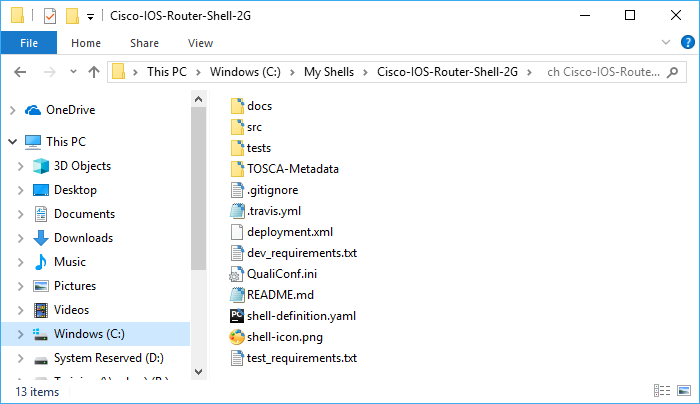
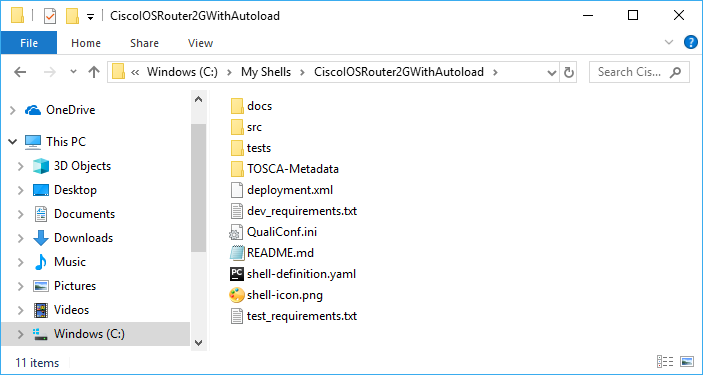
Customizing Shells - end-to-end example - simplified mock shell's extension process
rephrased step 1 to use the source code URL of the github repo's release instead of downloading the shell and using the path

diff --git a/_shells/8.3.0/customizing-shells.md b/_shells/8.3.0/customizing-shells.md
@@ -208,12 +208,12 @@ The shell’s categories are added to the Global domain. If a category with the 
 
 To help us understand the shell customization process, let’s add attributes and commands to a shell. To simulate this process, we’ve created a modified version of the Cisco IOS Router Shell, which creates a mock resource structure of 16 ports. Please feel free to use it.
 
-Start by extending the shell. In the <a href="https://community.quali.com/integrations" target="_blank">Quali Community Integrations</a> page, find the **Cisco IOS Router 2G Shell - Mock Autoload** shell and download its source code to your computer. Extract the source code zip package. Then, run `shellfoundry extend` using the path to the shell's root folder.
+Start by extending the shell. From the <a href="https://github.com/QualiSystemsLab/CiscoIOSRouter2GWithAutoload/releases" target="_blank">CiscoIOSRouter2GWithAutoload</a> shell's GitHub **Releases** page, copy the source code link address of the latest release. Then, run `shellfoundry extend`.
 
 For example:
 
 {% highlight yaml %}
-shellfoundry extend local:C:\Users\steven.g\Downloads\CiscoIOSRouter2GWithAutoload-master\CiscoIOSRouter2GWithAutoload-master\Cisco-IOS-Router-Shell-2G
+shellfoundry extend https://github.com/QualiSystemsLab/CiscoIOSRouter2GWithAutoload/archive/1.0.zip
 {% endhighlight %}
 
 The shell project is created in the directory from which you ran the command.
@@ -221,6 +221,8 @@ The shell project is created in the directory from which you ran the command.
 ![Context Object]({{ site.baseurl }}/assets/customizing-shells-shell-project.png)
 
 When you extend a shell, it's recommended to change the shell’s version and author. This is done in the shell project’s *shell-definition.yaml* file.
+
+For example:
 
 {% highlight yaml %}
 metadata:
@@ -234,7 +236,7 @@ To see how it looks in CloudShell Portal, navigate to the shell’s root folder 
 For example:
 
 {% highlight yaml %}
-cd "c:\My Shells\Cisco-IOS-Router-Shell-2G"
+cd "c:\My Shells\CiscoIOSRouter2GWithAutoload"
 shellfoundry install
 {% endhighlight %}
 

diff --git a/_shells/8.0.0/customizing-shells.md b/_shells/8.0.0/customizing-shells.md
@@ -206,12 +206,12 @@ Service Categories:
 
 To help us understand the shell customization process, let’s add attributes and commands to a shell. To simulate this process, we’ve created a modified version of the Cisco IOS Router Shell, which creates a mock resource structure of 16 ports. Please feel free to use it.
 
-Start by extending the shell. In the <a href="https://community.quali.com/integrations" target="_blank">Quali Community Integrations</a> page, find the **Cisco IOS Router 2G Shell - Mock Autoload** shell and download its source code to your computer. Extract the source code zip package. Then, run `shellfoundry extend` using the path to the shell's root folder.
+Start by extending the shell. From the <a href="https://github.com/QualiSystemsLab/CiscoIOSRouter2GWithAutoload/releases" target="_blank">CiscoIOSRouter2GWithAutoload</a> shell's GitHub **Releases** page, copy the source code link address of the latest release. Then, run `shellfoundry extend`.
 
 For example:
 
 {% highlight yaml %}
-shellfoundry extend local:C:\Users\steven.g\Downloads\CiscoIOSRouter2GWithAutoload-master\CiscoIOSRouter2GWithAutoload-master\Cisco-IOS-Router-Shell-2G
+shellfoundry extend https://github.com/QualiSystemsLab/CiscoIOSRouter2GWithAutoload/archive/1.0.zip
 {% endhighlight %}
 
 The shell project is created in the directory from which you ran the command.
@@ -219,6 +219,8 @@ The shell project is created in the directory from which you ran the command.
 ![Context Object]({{ site.baseurl }}/assets/customizing-shells-shell-project.png)
 
 When you extend a shell, it's recommended to change the shell’s version and author. This is done in the shell project’s *shell-definition.yaml* file.
+
+For example:
 
 {% highlight yaml %}
 metadata:
@@ -232,7 +234,7 @@ To see how it looks in CloudShell Portal, navigate to the shell’s root folder 
 For example:
 
 {% highlight yaml %}
-cd "c:\My Shells\Cisco-IOS-Router-Shell-2G"
+cd "c:\My Shells\CiscoIOSRouter2GWithAutoload"
 shellfoundry install
 {% endhighlight %}
 

diff --git a/_shells/8.1.0/customizing-shells.md b/_shells/8.1.0/customizing-shells.md
@@ -206,12 +206,12 @@ Service Categories:
 
 To help us understand the shell customization process, let’s add attributes and commands to a shell. To simulate this process, we’ve created a modified version of the Cisco IOS Router Shell, which creates a mock resource structure of 16 ports. Please feel free to use it.
 
-Start by extending the shell. In the <a href="https://community.quali.com/integrations" target="_blank">Quali Community Integrations</a> page, find the **Cisco IOS Router 2G Shell - Mock Autoload** shell and download its source code to your computer. Extract the source code zip package. Then, run `shellfoundry extend` using the path to the shell's root folder.
+Start by extending the shell. From the <a href="https://github.com/QualiSystemsLab/CiscoIOSRouter2GWithAutoload/releases" target="_blank">CiscoIOSRouter2GWithAutoload</a> shell's GitHub **Releases** page, copy the source code link address of the latest release. Then, run `shellfoundry extend`.
 
 For example:
 
 {% highlight yaml %}
-shellfoundry extend local:C:\Users\steven.g\Downloads\CiscoIOSRouter2GWithAutoload-master\CiscoIOSRouter2GWithAutoload-master\Cisco-IOS-Router-Shell-2G
+shellfoundry extend https://github.com/QualiSystemsLab/CiscoIOSRouter2GWithAutoload/archive/1.0.zip
 {% endhighlight %}
 
 The shell project is created in the directory from which you ran the command.
@@ -219,6 +219,8 @@ The shell project is created in the directory from which you ran the command.
 ![Context Object]({{ site.baseurl }}/assets/customizing-shells-shell-project.png)
 
 When you extend a shell, it's recommended to change the shell’s version and author. This is done in the shell project’s *shell-definition.yaml* file.
+
+For example:
 
 {% highlight yaml %}
 metadata:
@@ -232,7 +234,7 @@ To see how it looks in CloudShell Portal, navigate to the shell’s root folder 
 For example:
 
 {% highlight yaml %}
-cd "c:\My Shells\Cisco-IOS-Router-Shell-2G"
+cd "c:\My Shells\CiscoIOSRouter2GWithAutoload"
 shellfoundry install
 {% endhighlight %}
 

diff --git a/_shells/8.2.0/customizing-shells.md b/_shells/8.2.0/customizing-shells.md
@@ -206,12 +206,12 @@ Service Categories:
 
 To help us understand the shell customization process, let’s add attributes and commands to a shell. To simulate this process, we’ve created a modified version of the Cisco IOS Router Shell, which creates a mock resource structure of 16 ports. Please feel free to use it.
 
-Start by extending the shell. In the <a href="https://community.quali.com/integrations" target="_blank">Quali Community Integrations</a> page, find the **Cisco IOS Router 2G Shell - Mock Autoload** shell and download its source code to your computer. Extract the source code zip package. Then, run `shellfoundry extend` using the path to the shell's root folder.
+Start by extending the shell. From the <a href="https://github.com/QualiSystemsLab/CiscoIOSRouter2GWithAutoload/releases" target="_blank">CiscoIOSRouter2GWithAutoload</a> shell's GitHub **Releases** page, copy the source code link address of the latest release. Then, run `shellfoundry extend`.
 
 For example:
 
 {% highlight yaml %}
-shellfoundry extend local:C:\Users\steven.g\Downloads\CiscoIOSRouter2GWithAutoload-master\CiscoIOSRouter2GWithAutoload-master\Cisco-IOS-Router-Shell-2G
+shellfoundry extend https://github.com/QualiSystemsLab/CiscoIOSRouter2GWithAutoload/archive/1.0.zip
 {% endhighlight %}
 
 The shell project is created in the directory from which you ran the command.
@@ -219,6 +219,8 @@ The shell project is created in the directory from which you ran the command.
 ![Context Object]({{ site.baseurl }}/assets/customizing-shells-shell-project.png)
 
 When you extend a shell, it's recommended to change the shell’s version and author. This is done in the shell project’s *shell-definition.yaml* file.
+
+For example:
 
 {% highlight yaml %}
 metadata:
@@ -232,7 +234,7 @@ To see how it looks in CloudShell Portal, navigate to the shell’s root folder 
 For example:
 
 {% highlight yaml %}
-cd "c:\My Shells\Cisco-IOS-Router-Shell-2G"
+cd "c:\My Shells\CiscoIOSRouter2GWithAutoload"
 shellfoundry install
 {% endhighlight %}
 
